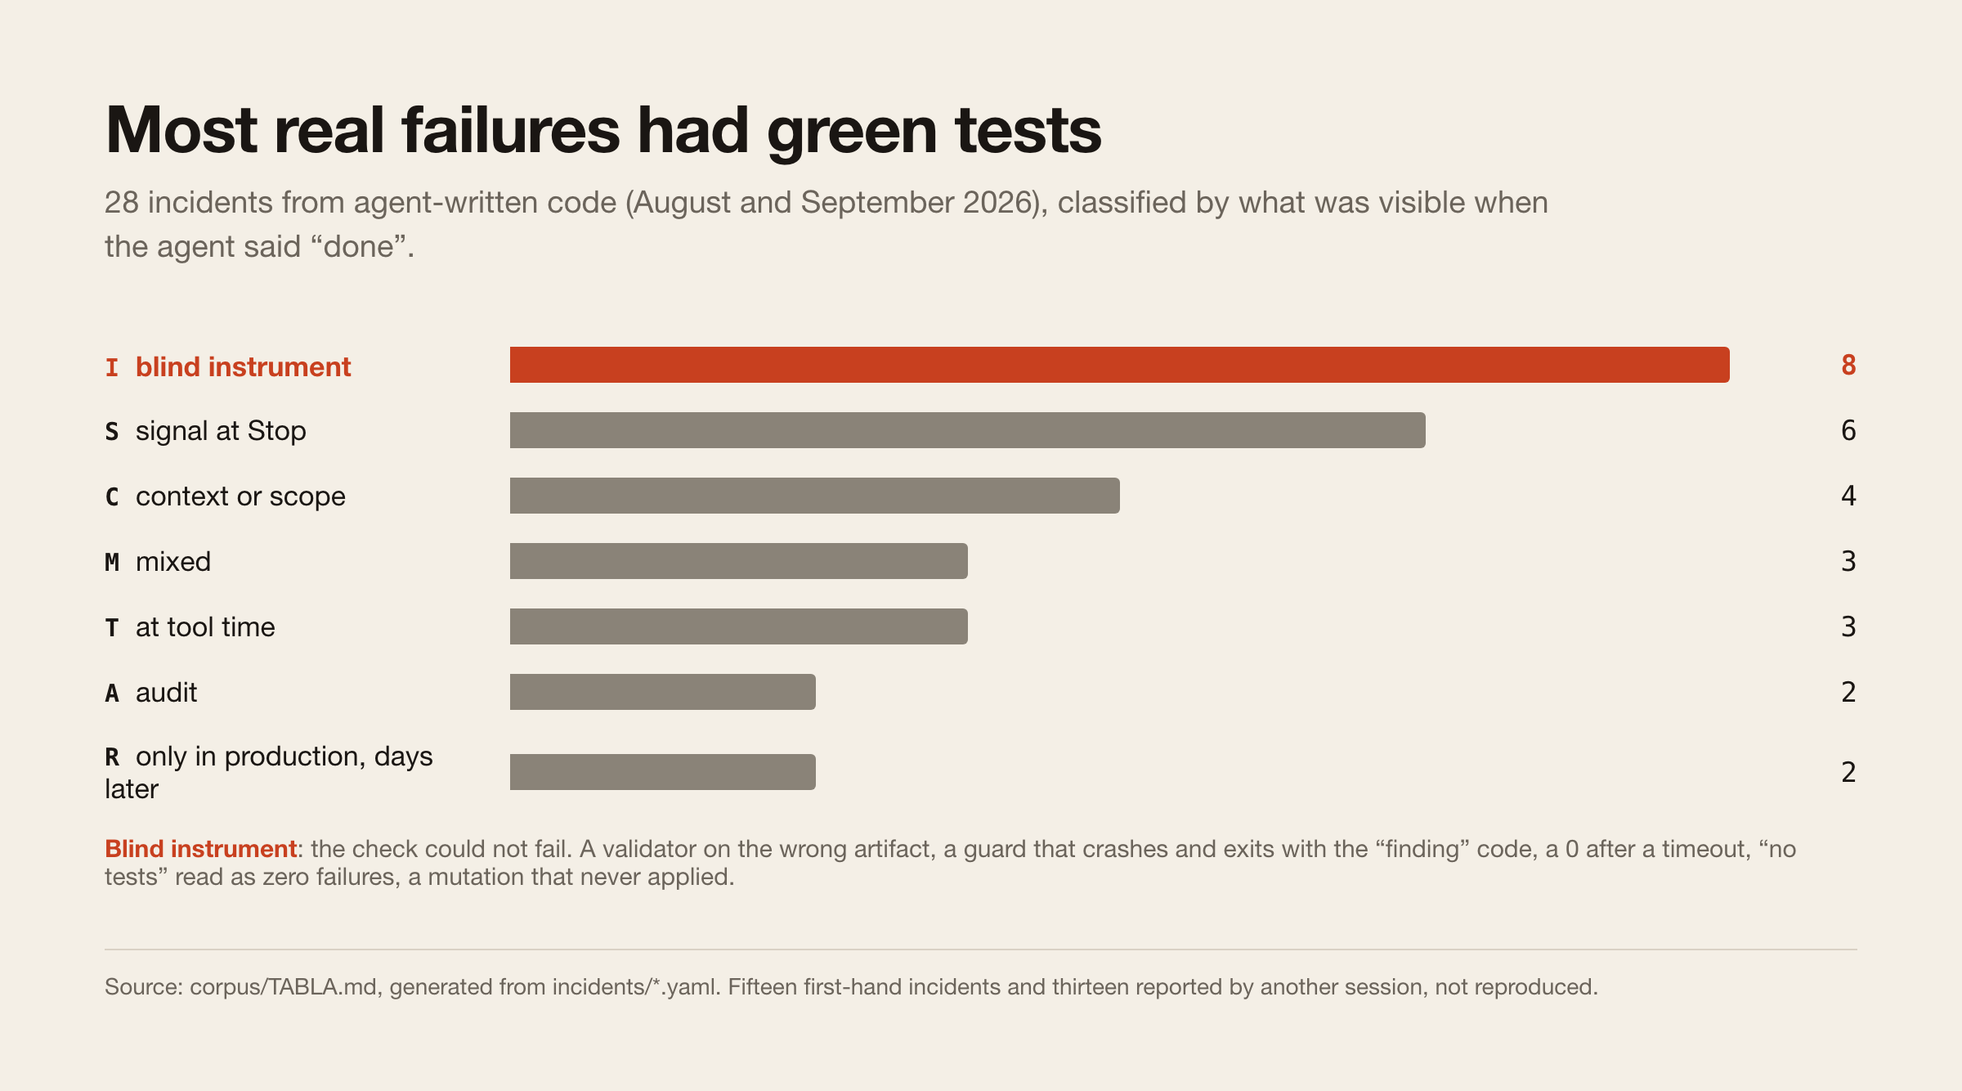
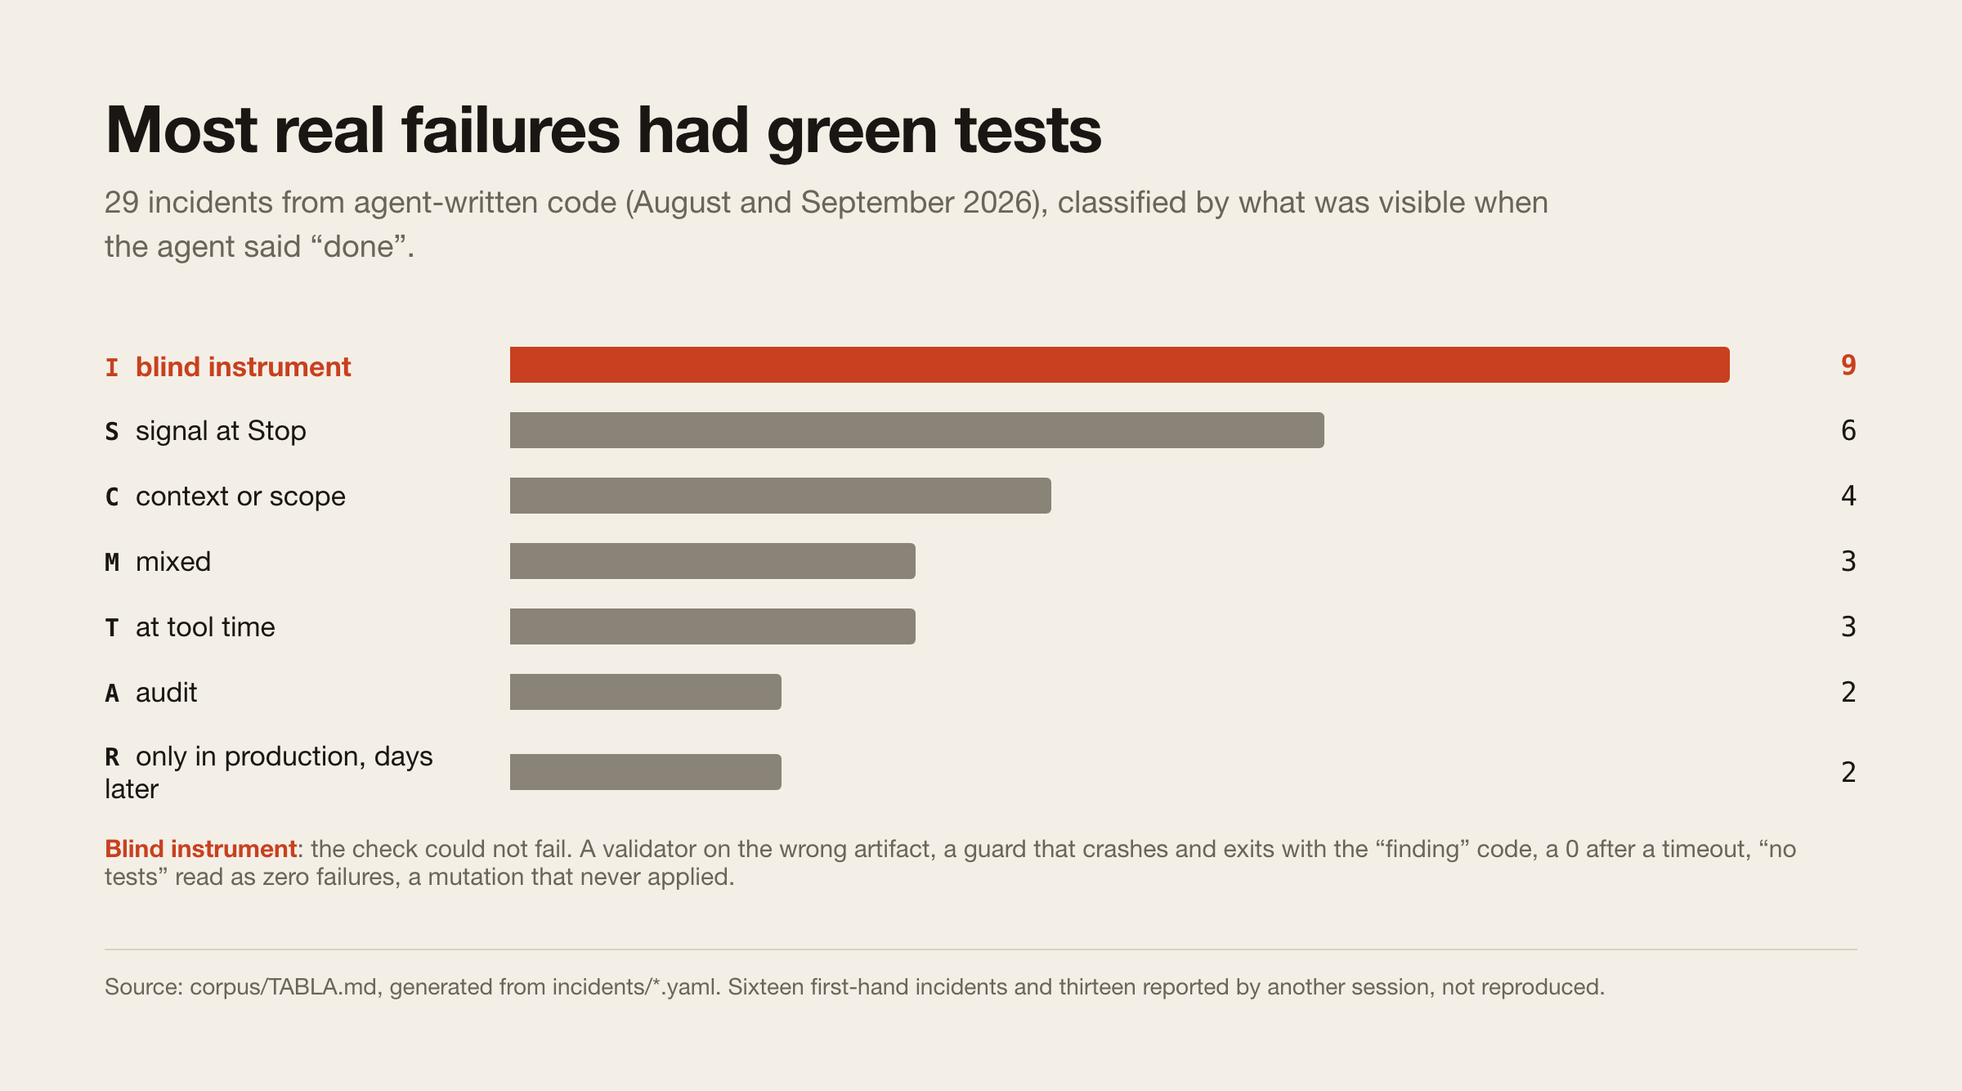
rompelo verify --ci: juez independiente que reejecuta los checks e ignora la evidencia guardada; registro de respaldo en el repo para runners; workflow de ejemplo; incidente 0029 al corpus
Seis casos nuevos en la batería (69). El README dice el límite: la puerta frena el descuido, no la trampa; el juez es CI.

diff --git a/docs/img/src/corpus.html b/docs/img/src/corpus.html
@@ -14,16 +14,16 @@ h1{font-size:40px;line-height:1.1;letter-spacing:-.02em;margin:0 0 10px;font-wei
 .note{font-size:15px;color:var(--muted);margin-top:8px}
 </style></head><body><div class="wrap">
 <h1>La mayoría de los fallos reales tenían las pruebas en verde</h1>
-<p class="sub">28 incidentes de código escrito por agentes (agosto y septiembre de 2026), clasificados por lo que era visible cuando el agente dijo «hecho».</p>
+<p class="sub">29 incidentes de código escrito por agentes (agosto y septiembre de 2026), clasificados por lo que era visible cuando el agente dijo «hecho».</p>
 <div class="rows">
- <div class="row hi"><div class="lab"><b>I</b>instrumento ciego</div><div><div class="bar" style="width:100%"></div></div><div class="val">8</div></div>
- <div class="row"><div class="lab"><b>S</b>señal al parar</div><div><div class="bar" style="width:75%"></div></div><div class="val">6</div></div>
- <div class="row"><div class="lab"><b>C</b>contexto o ámbito</div><div><div class="bar" style="width:50%"></div></div><div class="val">4</div></div>
- <div class="row"><div class="lab"><b>M</b>mixto</div><div><div class="bar" style="width:37.5%"></div></div><div class="val">3</div></div>
- <div class="row"><div class="lab"><b>T</b>al ejecutar la herramienta</div><div><div class="bar" style="width:37.5%"></div></div><div class="val">3</div></div>
- <div class="row"><div class="lab"><b>A</b>auditoría</div><div><div class="bar" style="width:25%"></div></div><div class="val">2</div></div>
- <div class="row"><div class="lab"><b>R</b>solo en producción, días después</div><div><div class="bar" style="width:25%"></div></div><div class="val">2</div></div>
+ <div class="row hi"><div class="lab"><b>I</b>instrumento ciego</div><div><div class="bar" style="width:100%"></div></div><div class="val">9</div></div>
+ <div class="row"><div class="lab"><b>S</b>señal al parar</div><div><div class="bar" style="width:66.7%"></div></div><div class="val">6</div></div>
+ <div class="row"><div class="lab"><b>C</b>contexto o ámbito</div><div><div class="bar" style="width:44.4%"></div></div><div class="val">4</div></div>
+ <div class="row"><div class="lab"><b>M</b>mixto</div><div><div class="bar" style="width:33.3%"></div></div><div class="val">3</div></div>
+ <div class="row"><div class="lab"><b>T</b>al ejecutar la herramienta</div><div><div class="bar" style="width:33.3%"></div></div><div class="val">3</div></div>
+ <div class="row"><div class="lab"><b>A</b>auditoría</div><div><div class="bar" style="width:22.2%"></div></div><div class="val">2</div></div>
+ <div class="row"><div class="lab"><b>R</b>solo en producción, días después</div><div><div class="bar" style="width:22.2%"></div></div><div class="val">2</div></div>
 </div>
 <p class="note"><span style="color:var(--red);font-weight:700">Instrumento ciego</span>: la comprobación no podía fallar. Un validador sobre el artefacto equivocado, un guardián que muere y sale con el código de «hallazgo», un 0 después de un timeout, «no tests» leído como cero fallos, una mutación que nunca se aplicó.</p>
-<div class="foot">Fuente: corpus/TABLA.md, generado desde incidents/*.yaml. Quince incidentes propios y trece relatados por otra sesión, no reproducidos.</div>
+<div class="foot">Fuente: corpus/TABLA.md, generado desde incidents/*.yaml. Dieciséis incidentes propios y trece relatados por otra sesión, no reproducidos.</div>
 </div></body></html>

diff --git a/docs/img/src/en-corpus.html b/docs/img/src/en-corpus.html
@@ -14,16 +14,16 @@ h1{font-size:40px;line-height:1.1;letter-spacing:-.02em;margin:0 0 10px;font-wei
 .note{font-size:15px;color:var(--muted);margin-top:8px}
 </style></head><body><div class="wrap">
 <h1>Most real failures had green tests</h1>
-<p class="sub">28 incidents from agent-written code (August and September 2026), classified by what was visible when the agent said “done”.</p>
+<p class="sub">29 incidents from agent-written code (August and September 2026), classified by what was visible when the agent said “done”.</p>
 <div class="rows">
- <div class="row hi"><div class="lab"><b>I</b>blind instrument</div><div><div class="bar" style="width:100%"></div></div><div class="val">8</div></div>
- <div class="row"><div class="lab"><b>S</b>signal at Stop</div><div><div class="bar" style="width:75%"></div></div><div class="val">6</div></div>
- <div class="row"><div class="lab"><b>C</b>context or scope</div><div><div class="bar" style="width:50%"></div></div><div class="val">4</div></div>
- <div class="row"><div class="lab"><b>M</b>mixed</div><div><div class="bar" style="width:37.5%"></div></div><div class="val">3</div></div>
- <div class="row"><div class="lab"><b>T</b>at tool time</div><div><div class="bar" style="width:37.5%"></div></div><div class="val">3</div></div>
- <div class="row"><div class="lab"><b>A</b>audit</div><div><div class="bar" style="width:25%"></div></div><div class="val">2</div></div>
- <div class="row"><div class="lab"><b>R</b>only in production, days later</div><div><div class="bar" style="width:25%"></div></div><div class="val">2</div></div>
+ <div class="row hi"><div class="lab"><b>I</b>blind instrument</div><div><div class="bar" style="width:100%"></div></div><div class="val">9</div></div>
+ <div class="row"><div class="lab"><b>S</b>signal at Stop</div><div><div class="bar" style="width:66.7%"></div></div><div class="val">6</div></div>
+ <div class="row"><div class="lab"><b>C</b>context or scope</div><div><div class="bar" style="width:44.4%"></div></div><div class="val">4</div></div>
+ <div class="row"><div class="lab"><b>M</b>mixed</div><div><div class="bar" style="width:33.3%"></div></div><div class="val">3</div></div>
+ <div class="row"><div class="lab"><b>T</b>at tool time</div><div><div class="bar" style="width:33.3%"></div></div><div class="val">3</div></div>
+ <div class="row"><div class="lab"><b>A</b>audit</div><div><div class="bar" style="width:22.2%"></div></div><div class="val">2</div></div>
+ <div class="row"><div class="lab"><b>R</b>only in production, days later</div><div><div class="bar" style="width:22.2%"></div></div><div class="val">2</div></div>
 </div>
 <p class="note"><span style="color:var(--red);font-weight:700">Blind instrument</span>: the check could not fail. A validator on the wrong artifact, a guard that crashes and exits with the “finding” code, a 0 after a timeout, “no tests” read as zero failures, a mutation that never applied.</p>
-<div class="foot">Source: corpus/TABLA.md, generated from incidents/*.yaml. Fifteen first-hand incidents and thirteen reported by another session, not reproduced.</div>
+<div class="foot">Source: corpus/TABLA.md, generated from incidents/*.yaml. Sixteen first-hand incidents and thirteen reported by another session, not reproduced.</div>
 </div></body></html>

diff --git a/docs/img/src/en-rojo-primero.html b/docs/img/src/en-rojo-primero.html
@@ -13,7 +13,7 @@ h1{font-size:40px;line-height:1.1;letter-spacing:-.02em;margin:0 0 10px;font-wei
 .s .d{font-size:17px;line-height:1.45}
 </style></head><body><div class="wrap">
 <h1>A green you have never seen red is not information</h1>
-<p class="sub">Every rompelo condition is accepted only after this cycle, and the test battery repeats it on every change: 63 cases.</p>
+<p class="sub">Every rompelo condition is accepted only after this cycle, and the test battery repeats it on every change: 69 cases.</p>
 <div class="seq">
  <div class="s g"><div class="h">1 · Start from green</div><div class="d">A good task with a complete contract, and the hook lets it stop. Without this, the red that follows says nothing: it may have been broken already.</div></div>
  <div class="s red"><div class="h">2 · Confirmed mutation → red</div><div class="d">The contract is broken on purpose, and it is confirmed that the mutation <em>happened</em> and creates the fault being hunted. Then the hook must block with that exact reason.</div></div>

diff --git a/docs/img/src/rojo-primero.html b/docs/img/src/rojo-primero.html
@@ -13,7 +13,7 @@ h1{font-size:40px;line-height:1.1;letter-spacing:-.02em;margin:0 0 10px;font-wei
 .s .d{font-size:17px;line-height:1.45}
 </style></head><body><div class="wrap">
 <h1>Un verde que nunca has visto rojo no es información</h1>
-<p class="sub">Cada condición de rompelo se acepta solo después de este ciclo, y la batería lo repite en cada cambio: 63 casos.</p>
+<p class="sub">Cada condición de rompelo se acepta solo después de este ciclo, y la batería lo repite en cada cambio: 69 casos.</p>
 <div class="seq">
  <div class="s g"><div class="h">1 · Verde de partida</div><div class="d">Una tarea buena, con contrato completo, y el hook deja parar. Sin esto, el rojo de después no dice nada: puede que ya estuviera roto.</div></div>
  <div class="s red"><div class="h">2 · Mutación confirmada → rojo</div><div class="d">Se rompe el contrato a propósito y se comprueba que la mutación <em>ocurrió</em> y que crea el fallo buscado. Entonces el hook tiene que bloquear con ese motivo exacto.</div></div>

diff --git a/README.es.md b/README.es.md
@@ -16,9 +16,9 @@ English documentation: [README.md](README.md).
 
 ## El problema del que parte
 
-![Gráfico de barras de 28 incidentes reales por clase: instrumento ciego 8, señal al parar 6, contexto 4, mixto 3, al ejecutar la herramienta 3, auditoría 2, producción 2](docs/img/es/corpus.png)
+![Gráfico de barras de 29 incidentes reales por clase: instrumento ciego 9, señal al parar 6, contexto 4, mixto 3, al ejecutar la herramienta 3, auditoría 2, producción 2](docs/img/es/corpus.png)
 
-Veintiocho incidentes reales de un mes de código escrito por agentes, cada uno anotado con lo
+Veintinueve incidentes reales de un mes de código escrito por agentes, cada uno anotado con lo
 que parecía verde cuando el agente dijo «hecho» ([corpus/TABLA.md](corpus/TABLA.md), generado
 desde [incidents/](incidents/)). La clase mayor no es «la prueba falló». Es «la comprobación no
 podía fallar»: un validador sobre el artefacto equivocado, un guardián que muere y sale con el
@@ -37,7 +37,7 @@ por tarea y sesión; después `rompelo` avisa al usuario y suelta, para que nadi
 
 ![Tres pasos: verde de partida, mutación confirmada que lo pone en rojo, deshecha y verde otra vez](docs/img/es/rojo-primero.png)
 
-La batería (63 casos, en CI en cada push) aplica este ciclo a cada condición de la propia
+La batería (69 casos, en CI en cada push) aplica este ciclo a cada condición de la propia
 puerta. Cuando una mutación se usa para forzar el rojo, la prueba confirma primero que la
 mutación ocurrió. Una mutación que no se aplicó no prueba nada, y ese error está dos veces en el corpus.
 
@@ -64,6 +64,14 @@ Lo que no hace, a propósito:
 - No lee la salida de los comandos, que puede llevar secretos.
 - Falla cerrado: un contrato ilegible en un repo alistado bloquea.
 - Sin dependencias. Biblioteca estándar de Python 3.9 y git.
+
+## El límite, dicho claro
+
+El agente puede editar su propio contrato y podría escribir la evidencia a mano. La puerta frena
+el descuido, no la trampa deliberada. El juez independiente es `rompelo verify --ci`: vuelve a
+ejecutar cada check en un runner donde el agente no ha escrito nada, ignora la evidencia guardada
+y deja el cruce real como lo único que CI no puede reproducir. Hay un workflow listo en
+[`adapters/ci/rompelo-gate.yml`](adapters/ci/rompelo-gate.yml); este repositorio lo corre sobre sí mismo.
 
 ## Instalar
 
@@ -105,7 +113,7 @@ cd tu-repo
 
 ## Verificado, y no
 
-- 63 casos en [`tests/rompelo-stop-test.sh`](tests/rompelo-stop-test.sh), cada condición vista
+- 69 casos en [`tests/rompelo-stop-test.sh`](tests/rompelo-stop-test.sh), cada condición vista
   en rojo con una mutación confirmada y luego en verde. CI los corre en Ubuntu en cada push.
 - El lado de Claude Code está cruzado en vivo: terminar un turno con el contrato sin cumplir
   devolvió el bloqueo con los motivos correctos, y la línea configurada en `settings.json` la
@@ -119,7 +127,7 @@ cd tu-repo
 1. Control positivo por check registrado: el instrumento tiene que detectar una entrada mala conocida antes de que su verde valga.
 2. Capa de observación: tres disparadores (riesgo de la tarea, firma de error repetida, afirmaciones sobre el mundo) que suben el rigor avisando antes, y piden permiso una vez antes de gastar en comprobaciones externas.
 3. Informe de cierre en llano: qué se comprobó y se vio fallar, qué no se pudo comprobar, qué queda a tu cargo.
-4. `rompelo verify --ci` como juez independiente en los pull requests.
+4. Mensajes de la puerta en inglés.
 5. Incidentes que se compilan en checks registrados: una lección como detector, no como prosa.
 
 ## Trabajo relacionado

diff --git a/README.md b/README.md
@@ -19,9 +19,9 @@ Documentación en español: [README.es.md](README.es.md).
 
 ## The problem it is built around
 
-![Bar chart of 28 real incidents by class: blind instrument 8, signal at Stop 6, context 4, mixed 3, tool time 3, audit 2, runtime 2](docs/img/en/corpus.png)
+![Bar chart of 29 real incidents by class: blind instrument 9, signal at Stop 6, context 4, mixed 3, tool time 3, audit 2, runtime 2](docs/img/en/corpus.png)
 
-Twenty-eight real incidents from one month of agent-written code, each written down with what
+Twenty-nine real incidents from one month of agent-written code, each written down with what
 looked green at the moment the agent said "done" ([corpus/TABLA.md](corpus/TABLA.md), generated
 from [incidents/](incidents/)). The largest class is not "the test failed". It is "the check
 could not fail": a validator run on the wrong artifact, a guard that crashed and exited with
@@ -40,7 +40,7 @@ and session; after that `rompelo` warns the user and lets go, so nobody gets tra
 
 ![Three steps: start from green, confirmed mutation turns it red, undo it and it is green again](docs/img/en/rojo-primero.png)
 
-The test battery (63 cases, run in CI on every push) applies this cycle to every condition of the
+The test battery (69 cases, run in CI on every push) applies this cycle to every condition of the
 gate itself. When a mutation is used to force red, the test first confirms the mutation actually
 happened. A mutation that did not apply proves nothing, and that mistake is in the corpus twice.
 
@@ -67,6 +67,15 @@ What it deliberately does not do:
 - It never reads command output, which could contain secrets.
 - It fails closed: an unreadable contract in an enrolled repo blocks.
 - It has no dependencies. Python 3.9 standard library and git.
+
+## The limit, said plainly
+
+The agent can edit its own contract and could write evidence files by hand. The gate stops
+carelessness, not a determined cheat. The independent judge is `rompelo verify --ci`: it
+re-runs every check on a runner where the agent has written nothing, ignores stored evidence,
+and reports the real boundary crossing as the one thing CI cannot reproduce. A ready-made
+workflow is in [`adapters/ci/rompelo-gate.yml`](adapters/ci/rompelo-gate.yml); this repository
+runs it on itself.
 
 ## Install
 
@@ -109,7 +118,7 @@ The gate's messages are in Spanish today; English messages are on the roadmap.
 
 ## Verified, and not
 
-- 63 cases in [`tests/rompelo-stop-test.sh`](tests/rompelo-stop-test.sh), each condition seen
+- 69 cases in [`tests/rompelo-stop-test.sh`](tests/rompelo-stop-test.sh), each condition seen
   red with a confirmed mutation, then green. CI runs them on Ubuntu on every push.
 - The Claude Code side has been crossed live: ending a turn with an unmet contract returned the
   block with the right reasons, and the configured `settings.json` line is replayed by
@@ -124,7 +133,7 @@ The gate's messages are in Spanish today; English messages are on the roadmap.
 1. Positive control per registered check: the instrument must detect a known-bad input before its green counts.
 2. Observation layer: three triggers (task risk, repeated error signature, claims about the world) that raise rigor with a warning first, and ask once before spending on external checks.
 3. Plain-language closing report: what was checked and seen failing, what could not be checked, what is the user's to decide.
-4. `rompelo verify --ci` as the independent judge in pull requests.
+4. English messages from the gate.
 5. Incidents that compile into registered checks, so a lesson becomes a detector instead of prose.
 
 ## Related work

diff --git a/corpus/TABLA.md b/corpus/TABLA.md
@@ -1,6 +1,6 @@
 # Corpus de fallos reales · tabla generada
 
-Generado desde `incidents/` (28 incidentes). No editar a mano: `python3 bin/rompelo-corpus.py`.
+Generado desde `incidents/` (29 incidentes). No editar a mano: `python3 bin/rompelo-corpus.py`.
 
 ## Lo que decide
 
@@ -8,16 +8,16 @@ Clases: **S** señal disponible al Stop · **T** en el momento de la herramienta
 
 | Pregunta | Recuento |
 |---|---|
-| Reparto por clase | **A**: 2 · **C**: 4 · **I**: 8 · **M**: 3 · **R**: 2 · **S**: 6 · **T**: 3 (de 28) |
+| Reparto por clase | **A**: 2 · **C**: 4 · **I**: 9 · **M**: 3 · **R**: 2 · **S**: 6 · **T**: 3 (de 29) |
 | recall del Stop gate sobre la clase S | **5 de 6** |
-| Cobertura del Stop gate sobre TODOS (no es la métrica, se deja por honestidad) | sí: 8 · parcial: 5 · no: 15 |
-| ¿Cuántos tienen ya un control hoy? | sí: 9 · parcial: 7 · **no: 12** |
+| Cobertura del Stop gate sobre TODOS (no es la métrica, se deja por honestidad) | sí: 8 · parcial: 5 · no: 16 |
+| ¿Cuántos tienen ya un control hoy? | sí: 10 · parcial: 7 · **no: 12** |
 
 ## Por tipo de gate que lo habría cazado
 
 | Gate | Incidentes | Existe hoy |
 |---|---|---|
-| `instrumento-control-positivo` | 10 (0006, 0013, 0016, 0017, 0018, 0019, 0020, 0022, 0023, 0025) | no, parcial, sí |
+| `instrumento-control-positivo` | 11 (0006, 0013, 0016, 0017, 0018, 0019, 0020, 0022, 0023, 0025, 0029) | no, parcial, sí |
 | `deriva-generada` | 4 (0002, 0003, 0012, 0026) | parcial, sí |
 | `pretooluse-destructivo` | 3 (0001, 0007, 0008) | no, sí |
 | `stop-junta` | 3 (0004, 0014, 0027) | no, parcial |
@@ -59,6 +59,7 @@ Clases: **S** señal disponible al Stop · **T** en el momento de la herramienta
 | 0026 | 2026-09-04 | C | no: la señal es la ausencia de un check | `deriva-generada` | parcial | no |
 | 0027 | 2026-09-04 | M | no del todo: la señal está en el sistema, no en el árbol | `stop-junta` | no | parcial |
 | 0028 | 2026-09-04 | S | sí: ShellCheck instalado y no ejecutado | `stop-checks` | sí | sí |
+| 0029 | 2026-09-05 | I | sí: el propio hook bloqueó con «cambios posteriores al cierre» sobre un árbol limpio | `instrumento-control-positivo` | sí | no |
 
 ## Títulos
 
@@ -90,3 +91,4 @@ Clases: **S** señal disponible al Stop · **T** en el momento de la herramienta
 - **0026** · cinco de los fallos del día estaban escritos en las reglas del proyecto antes de empezar; escribir la regla no es aplicarla (`relato de la sesión rootml-de (backend ClaveON), mensaje entre sesiones del 04-09-2026; no reproducido aquí`)
 - **0027** · se retiró el nodo que mandaba un SMS; el canon seguía diciendo que ese aviso sale por SMS, el workflow preparaba el texto y su guardián seguía en verde confirmando que los dos textos coincidían. Un guardián impecable vigilando algo que ya no ocurre (`relato de la sesión rootml-de (backend ClaveON), mensaje entre sesiones del 04-09-2026; no reproducido aquí`)
 - **0028** · se copió la convención de otro guardián del repo y se propagó su fallo con confianza; ShellCheck estaba instalado y no se había pasado (`relato de la sesión rootml-de (backend ClaveON), mensaje entre sesiones del 04-09-2026; no reproducido aquí`)
+- **0029** · La huella de rompelo cambiaba al commitear un fichero nuevo con el mismo contenido: el gate reabría la tarea sin que nada hubiera cambiado (`propio; bloqueo en vivo del hook Stop de rompelo en ~/rompelo, commit c77ffcf`)

diff --git a/adapters/codex/PROMPT-CODEX.md b/adapters/codex/PROMPT-CODEX.md
@@ -13,7 +13,7 @@ Reglas que no se negocian:
 - Nada se da por bueno sin haberlo visto fallar. Cada condición nueva del gate se ve primero en
   ROJO con un caso que la incumple y luego en VERDE con uno bueno, y las dos cosas quedan en
   `~/rompelo/tests/rompelo-stop-test.sh`. Antes de tocar nada, la batería tiene que estar en verde:
-  `bash ~/rompelo/tests/rompelo-stop-test.sh` (hoy: PASS=63 FAIL=0).
+  `bash ~/rompelo/tests/rompelo-stop-test.sh` (hoy: PASS=69 FAIL=0).
 - Cuando mutes un fichero para ver rojo, comprueba que la mutación ocurrió (grep del cambio) y
   que crea el fallo que buscas. Una mutación que no casa no prueba nada.
 - Commits en `~/rompelo` con mensajes en español y sin ninguna atribución a IA
